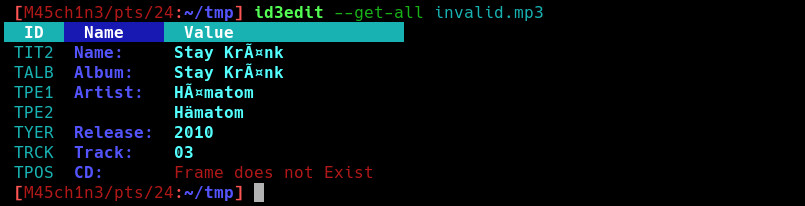
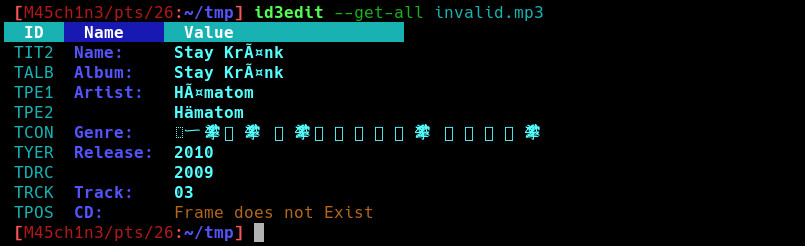
Version 2.0.0 finish

Changed region(s): [[0.0, 0.0, 0.6832, 0.9903]]

diff --git a/main.c b/main.c
@@ -12,7 +12,7 @@
 #include <printhex.h>
 #include <stdbool.h>
 
-#define VERSION "2.0.0 - indev"
+#define VERSION "2.0.0"
 
 int CopyArgument(char **dst, char *src);
 int ProcessSetArgument(ID3V2 *id3v2, unsigned int ID, const char *argument, unsigned char encoding);

diff --git a/README.md b/README.md
@@ -2,7 +2,7 @@
 
 `id3edit` is a command line editor to edit and **debug** ID3v2 tags ([ID3v2.3.0](http://id3.org/id3v2.3.0) & [ID3v2.4.0](http://id3.org/id3v2.4.0-structure) of mp3 files with full Unicode support.
 
-I separated it from the [MusicDB Project](https://github.com/rstemmer/musicdb) to give it its own repository and own issue tracker.
+I separated id3edit from the [MusicDB Project](https://github.com/rstemmer/musicdb) to give it its own repository and own issue tracker.
 
 **Its main features are:**
 
@@ -48,7 +48,7 @@ That's why I needed a "ID3 Debugger" and this project was born.
 Lessons learned: Also backup huge data collection and test foreign tools properly before using it in scripts :)
 
 After separating id3edit from [MusicDB](https://github.com/rstemmer/musicdb) I reviewed the whole code and added some missing features.
-Further more I added ID3v2.4.0 support.
+Furthermore I added ID3v2.4.0 support.
 So version 2.0.0 of id3edit was born.
 
 ## Examples
@@ -78,6 +78,7 @@ id3edit --set-name    "Example Song"         \\
         --set-track   "13/42"                \\
         --set-cd      "1/1"                  \\
         --clean                              \\
+        --encoding    utf-8                  \\
         --outfile Example\ Song.mp3          \\
         sourcefile.mp3
 
@@ -98,7 +99,8 @@ The file was originally tagged by a tool that claimed to support Unicode. As we 
 
  * `--get-all` prints all relevant frames.
 
-Obviously there are some encoding problems. We will look at the Song Name (`TIT2` Frame) in detail later.
+Obviously there are some encoding problems and two different release dates.
+We will look at the song name (`TIT2` frame) and genre (`TCON` frame) in detail later.
 
 #### Getting details of the damaged frames
 
@@ -107,15 +109,19 @@ Now we can use `id3edit` to further inspect the file to figure out what's wrong:
 ![Print all frames with details](screenshots/02.jpg?raw=true)
 
  * `--showheader` prints lots of details of the ID3 header and the frame headers while reading the ID3 Tag.
- * `--get-framelist` prints a list of all available frames including details of their size and encoding.
-    * Red IDs are IDs that are not directly supported by _id3edit_. (When they start with a `T` we can work with them anyway)
+ * `--get-frames` prints a list of all available frames including details of their size and encoding as well as other useful information.
+    * The first column checks if the frames are defined or deprecated in the specific ID3v2 standard.
+    * Gray IDs are IDs that are not directly supported by _id3edit_. (When they start with a `T` we can work with them anyway)
     * When there is a problem with the UTF-16 encoding, it gets mentioned in yellow.
+    * If there is an artwork embedded, details like the mime type and dimension of the image are displayed.
 
 The result of this first look into the details give us the following information:
 
- 1. There are frames not fully supported by _id3edit_ (`TSSE`, `TDRC`, `TCON`). That's why they do not appear in the result of `--get-all`. (This is not a problem)
- 2. The claimed size of the ID3 Tag is greater than the actual size. The size given in the ID3 Tag Header will be adjusted. This must not be a sign of an invalid Tag. ID3 allows padding bytes that get striped away by _id3edit_.
- 3. There are two BOMs (Byte Order Marks) in the `TCON` frame. This an indicator that the mp3 file was tagged by a software that is not ID3v2 conform and/or has problems with Unicode encoded data.
+ 1. There is a frame not fully supported by _id3edit_ (`TSSE`). That's why they do not appear in the result of `--get-all`. (This is not a problem)
+ 2. The `TDRC` frame is not defined in ID3v2.3.0 version of the standard that is defined by the header.
+ 3. The claimed size of the ID3 Tag is greater than the actual size. The size given in the ID3 Tag Header will be adjusted. This must not be a sign of an invalid Tag. ID3 allows padding bytes that get striped away by _id3edit_.
+ 4. There are two BOMs (Byte Order Marks) in the `TCON` frame. This is an indicator that the mp3 file was tagged by a software that is not ID3v2 conform and/or has problems with Unicode encoded data. It also explains why the genre name in the first screenshot looks so strange.
+ 5. The artworks width is shorter than its height. That's just ugly but not really a problem with the ID3 Tag itself.
 
 #### Check and repair song name
 
